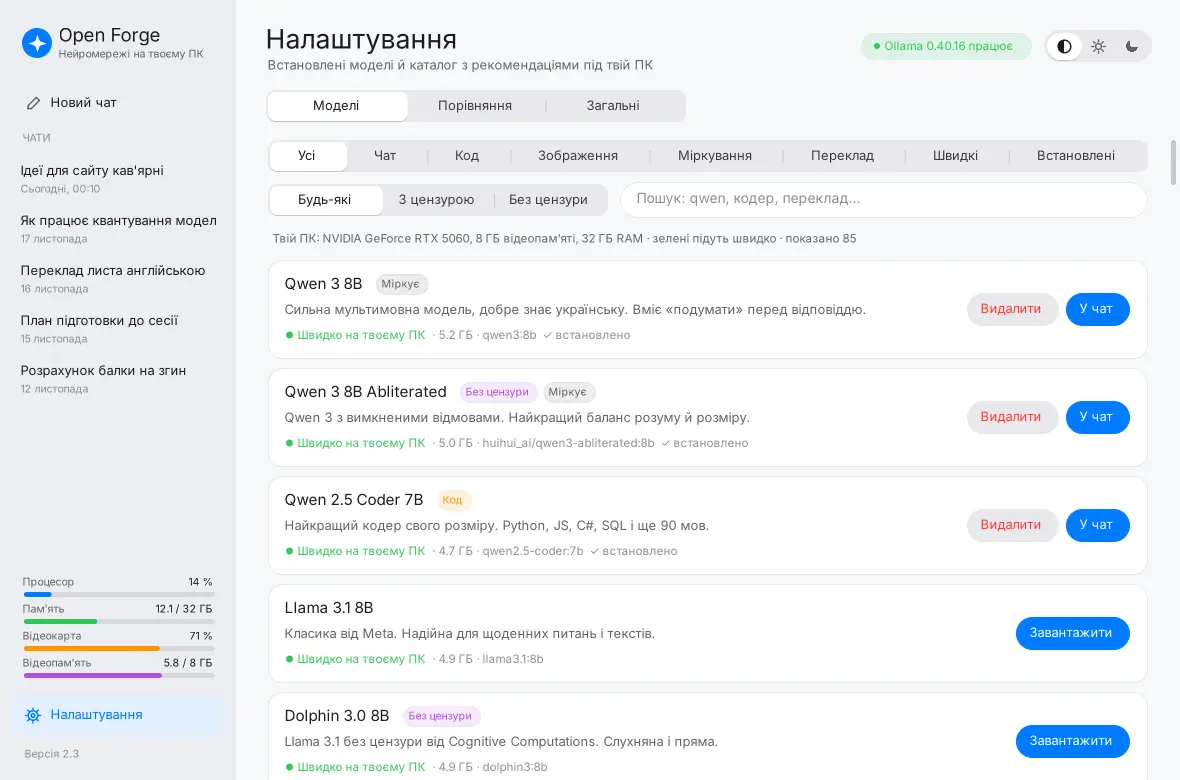
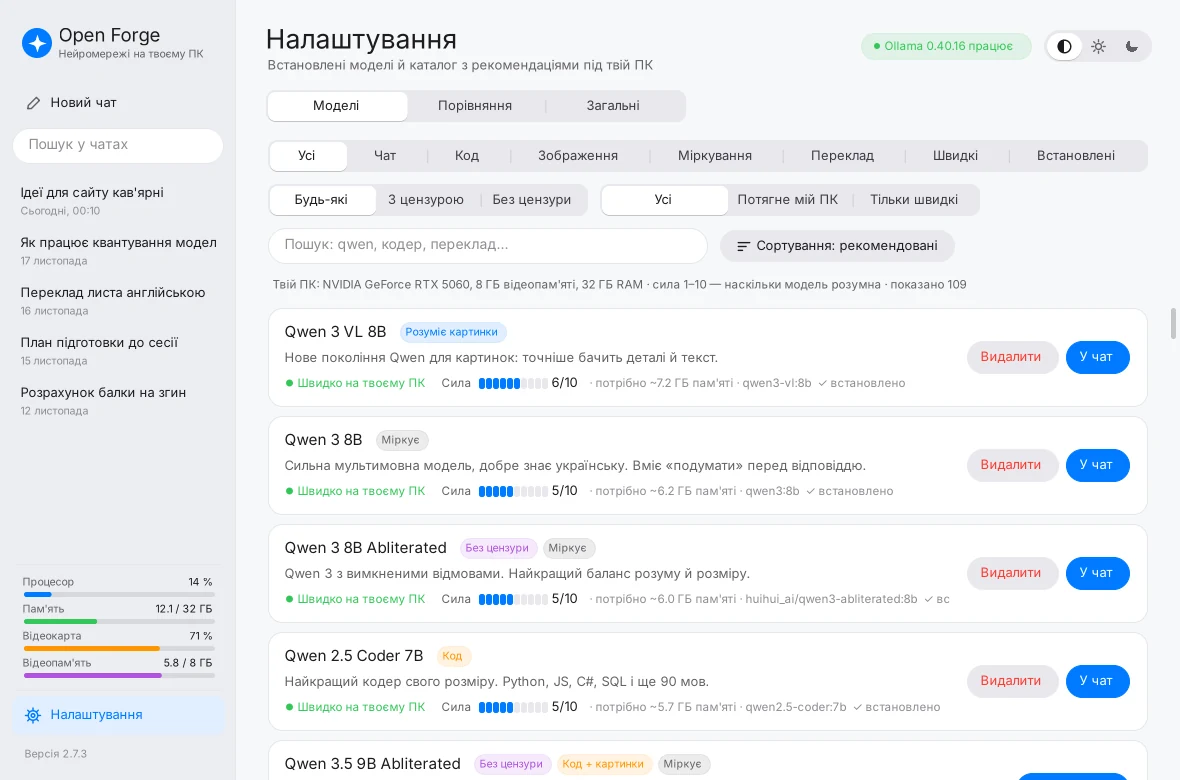
Сайт: перемикач теми (авто/світла/темна), тексти й скріни 2.7, сила моделей
Claude-Session: https://claude.ai/code/session_01SfcRwtUikkL3KpzoXkzQND

diff --git a/docs/index.html b/docs/index.html
@@ -4,8 +4,12 @@
 <meta charset="UTF-8">
 <meta name="viewport" content="width=device-width, initial-scale=1.0, viewport-fit=cover">
 <title>Open Forge — локальний AI для Windows</title>
-<meta name="description" content="Запускай локальні моделі ШІ на своєму ПК: чат, агент, що працює з файлами в папці, порівняння моделей і 109 моделей у каталозі — звичайні й без цензури.">
+<meta name="description" content="Запускай локальні моделі ШІ на своєму ПК: чат з файлами PDF і Word, агент, що працює з файлами в папці, порівняння моделей і 109 моделей із силою 1–10 — звичайні й без цензури.">
 <link rel="icon" type="image/png" href="img/icon.png">
+<script>
+// Тема з минулого візиту — до першого малювання, щоб сторінка не «блимала».
+try { var t = localStorage.getItem("of-theme"); if (t === "light" || t === "dark") document.documentElement.setAttribute("data-theme", t); } catch (e) {}
+</script>
 <link rel="preconnect" href="https://fonts.googleapis.com">
 <link rel="stylesheet" href="https://fonts.googleapis.com/css2?family=Inter:wght@400;500;600;700&family=Space+Grotesk:wght@500;600;700&display=swap">
 <style>
@@ -61,7 +65,7 @@ nav {
   border-bottom: 1px solid var(--border);
 }
 .nav { display: flex; align-items: center; justify-content: space-between; height: 58px; }
-.brand { display: flex; align-items: center; gap: 10px; font: 600 17px 'Space Grotesk', sans-serif; color: var(--fg); }
+.brand { display: flex; align-items: center; gap: 10px; font: 600 17px 'Space Grotesk', sans-serif; color: var(--fg); white-space: nowrap; }
 .brand img { width: 28px; height: 28px; border-radius: 7px; }
 .brand:hover { text-decoration: none; }
 .links { display: flex; gap: 26px; align-items: center; list-style: none; }
@@ -77,6 +81,21 @@ nav {
 .btn-ghost { background: var(--bg2); color: var(--fg) !important; padding: 13px 24px; font-size: 16px; border: 1px solid var(--border); }
 .btn-small { padding: 8px 16px; font-size: 13px; }
 .btn svg { width: 18px; height: 18px; }
+
+/* theme switch */
+.nav-right { display: flex; align-items: center; gap: 18px; }
+.theme {
+  display: inline-flex; padding: 3px; gap: 2px; border-radius: 999px;
+  background: var(--bg3); border: 1px solid var(--border);
+}
+.theme button {
+  width: 32px; height: 28px; border: 0; border-radius: 999px; background: transparent; color: var(--fg3);
+  display: grid; place-items: center; cursor: pointer; transition: background .15s, color .15s;
+}
+.theme button:hover { color: var(--fg); }
+.theme button[aria-pressed="true"] { background: var(--bg2); color: var(--fg); box-shadow: 0 1px 3px rgba(0,0,0,.12); }
+.theme svg { width: 16px; height: 16px; }
+.theme button:focus-visible { outline: 2px solid var(--accent); outline-offset: 1px; }
 
 /* hero */
 .hero { text-align: center; padding-top: 84px; padding-bottom: 40px; }
@@ -139,6 +158,11 @@ h2 { font-size: clamp(30px, 4.2vw, 46px); line-height: 1.1; margin-bottom: 14px;
 .tag.rec { background: var(--ok-soft); color: var(--ok); }
 .tag.unc { background: var(--violet-soft); color: var(--violet); }
 .note { color: var(--fg3); font-size: 13px; margin-top: 16px; }
+.power { display: flex; align-items: center; gap: 2px; margin-top: 6px; }
+.power em { font-style: normal; font-size: 12px; color: var(--fg3); margin-right: 6px; }
+.power i { width: 4px; height: 9px; border-radius: 1.5px; background: var(--border); }
+.power i.on { background: var(--accent); }
+.power b { display: inline; font-size: 11px; margin-left: 4px; color: var(--fg2); }
 
 /* what's new */
 .newbox { background: var(--bg2); border: 1px solid var(--border); border-radius: 20px; padding: 32px; box-shadow: var(--shadow); }
@@ -146,6 +170,11 @@ h2 { font-size: clamp(30px, 4.2vw, 46px); line-height: 1.1; margin-bottom: 14px;
 .newbox li { display: flex; gap: 12px; color: var(--fg2); }
 .newbox li b { color: var(--fg); }
 .dot { flex: none; width: 8px; height: 8px; margin-top: 9px; border-radius: 50%; background: var(--accent); }
+.older { margin-top: 22px; border: 0; background: transparent; padding: 0; }
+.older summary { padding: 0; color: var(--accent); font-weight: 600; font-size: 15px; justify-content: flex-start; }
+.older summary::after { content: ""; }
+.older ul { margin-top: 14px; }
+.older li { font-size: 14px; }
 
 /* steps */
 .steps { display: grid; grid-template-columns: repeat(auto-fit, minmax(220px, 1fr)); gap: 26px; counter-reset: s; }
@@ -184,10 +213,12 @@ footer { margin-top: 80px; border-top: 1px solid var(--border); }
 
 @media (max-width: 760px) {
   .links li:not(:last-child) { display: none; }
+  .nav-right { gap: 10px; }
   .hero { padding-top: 56px; }
   section { padding-top: 72px; }
   .newbox { padding: 22px; }
 }
+@media (max-width: 440px) { .links { display: none; } }
 @media (prefers-reduced-motion: reduce) { * { transition: none !important; scroll-behavior: auto !important; } }
 </style>
 </head>
@@ -196,19 +227,32 @@ footer { margin-top: 80px; border-top: 1px solid var(--border); }
 <nav>
   <div class="wrap nav">
     <a class="brand" href="#"><img src="img/icon.png" alt="">Open Forge</a>
-    <ul class="links">
-      <li><a href="#features">Можливості</a></li>
-      <li><a href="#look">Як виглядає</a></li>
-      <li><a href="#models">Моделі</a></li>
-      <li><a href="#faq">Питання</a></li>
-      <li><a href="https://github.com/Dimonchikk/Open-Forge" target="_blank" rel="noopener">GitHub</a></li>
-      <li><a class="btn btn-primary btn-small dl" href="https://github.com/Dimonchikk/Open-Forge/releases/latest">Завантажити</a></li>
-    </ul>
+    <div class="nav-right">
+      <ul class="links">
+        <li><a href="#features">Можливості</a></li>
+        <li><a href="#look">Як виглядає</a></li>
+        <li><a href="#models">Моделі</a></li>
+        <li><a href="#faq">Питання</a></li>
+        <li><a href="https://github.com/Dimonchikk/Open-Forge" target="_blank" rel="noopener">GitHub</a></li>
+        <li><a class="btn btn-primary btn-small dl" href="https://github.com/Dimonchikk/Open-Forge/releases/latest">Завантажити</a></li>
+      </ul>
+      <div class="theme" role="group" aria-label="Тема сайту">
+        <button type="button" data-theme-set="auto" title="Як у системі" aria-label="Тема як у системі">
+          <svg viewBox="0 0 24 24" fill="none" stroke="currentColor" stroke-width="2"><circle cx="12" cy="12" r="8.5"/><path d="M12 3.5a8.5 8.5 0 0 1 0 17z" fill="currentColor"/></svg>
+        </button>
+        <button type="button" data-theme-set="light" title="Світла" aria-label="Світла тема">
+          <svg viewBox="0 0 24 24" fill="none" stroke="currentColor" stroke-width="2" stroke-linecap="round"><circle cx="12" cy="12" r="4"/><path d="M12 2.5v2M12 19.5v2M4.6 4.6l1.4 1.4M18 18l1.4 1.4M2.5 12h2M19.5 12h2M4.6 19.4L6 18M18 6l1.4-1.4"/></svg>
+        </button>
+        <button type="button" data-theme-set="dark" title="Темна" aria-label="Темна тема">
+          <svg viewBox="0 0 24 24" fill="currentColor"><path d="M20.5 14.2A8.5 8.5 0 0 1 9.8 3.5a8.5 8.5 0 1 0 10.7 10.7z"/></svg>
+        </button>
+      </div>
+    </div>
   </div>
 </nav>
 
 <header class="wrap hero">
-  <a class="pill" href="#new">Нове у 2.7: файли PDF і Word, думки моделі, таблиці →</a>
+  <a class="pill" href="#new">Нове у 2.7: файли PDF і Word, думки моделі, сила 1–10 →</a>
   <h1>Локальний AI.<br><em>Без обмежень.</em></h1>
   <p class="sub">Запускай, тестуй і порівнюй моделі штучного інтелекту прямо на своєму комп'ютері. Без хмари, без підписок — і з моделями без цензури.</p>
   <div class="actions">
@@ -218,10 +262,10 @@ footer { margin-top: 80px; border-top: 1px solid var(--border); }
     </a>
     <a class="btn btn-ghost" href="https://github.com/Dimonchikk/Open-Forge" target="_blank" rel="noopener">Вихідний код</a>
   </div>
-  <p class="meta">Версія <span class="ver">2.7.4</span> · <span class="size">200 КБ</span> · Windows 10 і 11 · безкоштовно</p>
+  <p class="meta">Версія <span class="ver">2.7.4</span> · <span class="size">250 КБ</span> · Windows 10 і 11 · безкоштовно</p>
 
   <div class="shot">
-    <img class="only-light" src="img/chat_light.webp" alt="Чат Open Forge: питання і відповідь моделі Qwen 3 8B" width="1180" height="780">
+    <img class="only-light" src="img/chat_light.webp" alt="Чат Open Forge: модель подумала 2 секунди й написала скрипт на Python" width="1180" height="780">
     <img class="only-dark" src="img/chat_dark.webp" alt="Чат Open Forge у темній темі" width="1180" height="780">
   </div>
 </header>
@@ -235,23 +279,28 @@ footer { margin-top: 80px; border-top: 1px solid var(--border); }
   <div class="grid">
     <div class="card">
       <div class="ico"><svg viewBox="0 0 24 24" fill="none" stroke="currentColor" stroke-width="2" stroke-linecap="round" stroke-linejoin="round"><rect x="3" y="4" width="18" height="13" rx="4"/><path d="M8 17l-2.5 3.5L12 17"/></svg></div>
-      <h3>Чат без зависань</h3>
-      <p>Відповідь іде наживо, вікно лишається чуйним навіть на дуже довгих текстах. Можна кидати фото й скріншоти, виділяти текст мишею, код — окремим блоком з «Копіювати».</p>
+      <h3>Чат, як у великих</h3>
+      <p>Відповідь іде наживо з заголовками, списками, таблицями й блоками коду з «Копіювати». Свої повідомлення можна редагувати й видаляти, а «Ще раз» перепише відповідь.</p>
     </div>
     <div class="card">
-      <div class="ico"><svg viewBox="0 0 24 24" fill="none" stroke="currentColor" stroke-width="2" stroke-linecap="round" stroke-linejoin="round"><circle cx="12" cy="12" r="9"/><path d="M12 7v5l3.5 2"/></svg></div>
-      <h3>Історія чатів <span class="new">2.2</span></h3>
-      <p>Кожна розмова зберігається сама й лежить у боковому меню. Відкрий старий чат і продовж, перейменуй або видали.</p>
+      <div class="ico"><svg viewBox="0 0 24 24" fill="none" stroke="currentColor" stroke-width="2" stroke-linecap="round" stroke-linejoin="round"><path d="M14 3H7a2 2 0 0 0-2 2v14a2 2 0 0 0 2 2h10a2 2 0 0 0 2-2V8z"/><path d="M14 3v5h5M9 13h6M9 17h4"/></svg></div>
+      <h3>Файли й фото <span class="new">2.7</span></h3>
+      <p>Кидай у чат PDF, Word, текст, код чи скріншот — кнопкою «+», через Ctrl+V або перетягуванням. Модель прочитає й відповість по суті.</p>
     </div>
     <div class="card">
-      <div class="ico"><svg viewBox="0 0 24 24" fill="none" stroke="currentColor" stroke-width="2" stroke-linecap="round" stroke-linejoin="round"><path d="M4 9.5h3.5L12 6v12l-4.5-3.5H4z"/><path d="M15.5 9a4 4 0 0 1 0 6M18 6.5a7.5 7.5 0 0 1 0 11"/></svg></div>
-      <h3>Озвучка відповідей <span class="new">2.2</span></h3>
-      <p>Кнопка «Слухати» під відповіддю. Українську читає безкоштовний офлайн-голос, інші мови — голоси Windows.</p>
+      <div class="ico"><svg viewBox="0 0 24 24" fill="none" stroke="currentColor" stroke-width="2" stroke-linecap="round" stroke-linejoin="round"><path d="M12 3l1.8 5.2L19 10l-5.2 1.8L12 17l-1.8-5.2L5 10l5.2-1.8z"/><path d="M19 17l.7 1.8 1.8.7-1.8.7L19 22l-.7-1.8-1.8-.7 1.8-.7z"/></svg></div>
+      <h3>Думки моделі <span class="new">2.7</span></h3>
+      <p>Моделі, що міркують, показують хід думок у рядку «Думав 12 с» — клік розгортає. Поки думає, видно таймер.</p>
     </div>
     <div class="card">
       <div class="ico"><svg viewBox="0 0 24 24" fill="none" stroke="currentColor" stroke-width="2" stroke-linecap="round" stroke-linejoin="round"><path d="M3 7.5A2.5 2.5 0 0 1 5.5 5H10l2 2h6.5A2.5 2.5 0 0 1 21 9.5v8a2.5 2.5 0 0 1-2.5 2.5h-13A2.5 2.5 0 0 1 3 17.5z"/></svg></div>
       <h3>Агент у твоїй папці</h3>
-      <p>Обираєш папку — модель створює файли й підпапки з кодом, запускає команди за твоїм дозволом і робить скріншоти, щоб перевірити результат.</p>
+      <p>Модель створює файли з кодом, запускає команди за твоїм дозволом і робить скріншоти, щоб перевірити себе. Готовий сайт — «Переглянути» у вікні поруч.</p>
+    </div>
+    <div class="card">
+      <div class="ico"><svg viewBox="0 0 24 24" fill="none" stroke="currentColor" stroke-width="2" stroke-linecap="round" stroke-linejoin="round"><path d="M12 2.5l8.5 4.5v10L12 21.5 3.5 17V7z"/><path d="M3.5 7L12 11.5 20.5 7M12 11.5v10"/></svg></div>
+      <h3>109 моделей із силою 1–10 <span class="new">2.7</span></h3>
+      <p>На кожній картці — наскільки модель розумна, скільки пам'яті їй треба і чи потягне її твій ПК. Фільтр «Потягне мій ПК» і сортування від сильної до слабкої.</p>
     </div>
     <div class="card">
       <div class="ico"><svg viewBox="0 0 24 24" fill="none" stroke="currentColor" stroke-width="2" stroke-linecap="round" stroke-linejoin="round"><rect x="3" y="4" width="7" height="16" rx="2"/><rect x="14" y="4" width="7" height="16" rx="2"/></svg></div>
@@ -259,19 +308,19 @@ footer { margin-top: 80px; border-top: 1px solid var(--border); }
       <p>Одне питання — до трьох моделей поруч. Видно швидкість, час і токени; найшвидша отримує позначку.</p>
     </div>
     <div class="card">
-      <div class="ico"><svg viewBox="0 0 24 24" fill="none" stroke="currentColor" stroke-width="2" stroke-linecap="round" stroke-linejoin="round"><path d="M12 2.5l8.5 4.5v10L12 21.5 3.5 17V7z"/><path d="M3.5 7L12 11.5 20.5 7M12 11.5v10"/></svg></div>
-      <h3>109 моделей під твій ПК</h3>
-      <p>Чат, код, зображення, міркування, переклад — з фільтрами й пошуком. Біля кожної видно, чи піде вона швидко на твоїй відеокарті.</p>
-    </div>
-    <div class="card">
       <div class="ico"><svg viewBox="0 0 24 24" fill="none" stroke="currentColor" stroke-width="2" stroke-linecap="round" stroke-linejoin="round"><rect x="4" y="10" width="16" height="11" rx="2.5"/><path d="M8 10V7a4 4 0 0 1 7.5-2"/></svg></div>
       <h3>Моделі без цензури</h3>
-      <p>Dolphin і abliterated-версії відомих моделей — відповідають прямо, без «я не можу з цим допомогти».</p>
+      <p>48 версій Dolphin і abliterated у кожному розділі — відповідають прямо, без «я не можу з цим допомогти».</p>
+    </div>
+    <div class="card">
+      <div class="ico"><svg viewBox="0 0 24 24" fill="none" stroke="currentColor" stroke-width="2" stroke-linecap="round" stroke-linejoin="round"><circle cx="12" cy="12" r="9"/><path d="M12 7v5l3.5 2"/></svg></div>
+      <h3>Історія, пошук і озвучка</h3>
+      <p>Кожна розмова зберігається сама, є пошук за текстом. Кнопка «Слухати» читає відповідь українським офлайн-голосом.</p>
     </div>
     <div class="card">
       <div class="ico"><svg viewBox="0 0 24 24" fill="none" stroke="currentColor" stroke-width="2" stroke-linecap="round" stroke-linejoin="round"><path d="M13 3L5 14h6l-1 7 8-11h-6z"/></svg></div>
       <h3>Крихітний і швидкий</h3>
-      <p>Один файл на ~200 КБ, відкривається миттєво. Світла й темна тема, оновлення однією кнопкою.</p>
+      <p>Один файл на ~250 КБ, відкривається миттєво. Навантаження ПК видно в меню, світла й темна тема, оновлення однією кнопкою.</p>
     </div>
   </div>
 </section>
@@ -279,7 +328,7 @@ footer { margin-top: 80px; border-top: 1px solid var(--border); }
 <section id="look" class="gallery">
   <p class="label">Як виглядає</p>
   <h2>Чисто, зрозуміло, у світлій і темній темі</h2>
-  <p class="lead">Скріни Open Forge 2.6. Тема підлаштовується під Windows.</p>
+  <p class="lead">Скріни Open Forge 2.7. Програма бере тему з Windows, а цей сайт можна перемкнути кнопкою вгорі.</p>
   <div class="tabs" role="tablist">
     <button class="tab" role="tab" aria-selected="true" data-shot="chat">Чат</button>
     <button class="tab" role="tab" aria-selected="false" data-shot="agent">Агент</button>
@@ -299,16 +348,16 @@ footer { margin-top: 80px; border-top: 1px solid var(--border); }
   <h2>Найкращі відкриті моделі вже всередині</h2>
   <p class="lead">109 моделей з бібліотеки Ollama: звичайні та 48 без цензури (Dolphin і abliterated) — у кожному розділі, зокрема 26 таких, що розуміють картинки. Ось кілька, що швидко працюють на відеокарті з 8 ГБ:</p>
   <div class="models">
-    <div class="m"><div><b>Qwen 3 8B</b><small>Чат · думає перед відповіддю</small></div><span class="tag rec">Рекомендовано</span></div>
-    <div class="m"><div><b>Qwen 3 8B Abliterated</b><small>Чат · без відмов</small></div><span class="tag unc">Без цензури</span></div>
-    <div class="m"><div><b>Qwen 2.5 Coder 7B</b><small>Код · 90+ мов</small></div><span class="tag rec">Рекомендовано</span></div>
-    <div class="m"><div><b>DeepSeek R1 8B</b><small>Міркування · крок за кроком</small></div><span class="tag rec">Рекомендовано</span></div>
-    <div class="m"><div><b>Dolphin 3.0 8B</b><small>Чат · Llama 3.1</small></div><span class="tag unc">Без цензури</span></div>
-    <div class="m"><div><b>TranslateGemma 4B</b><small>Переклад · 55 мов</small></div><span class="tag rec">Рекомендовано</span></div>
-    <div class="m"><div><b>Qwen 3.5 9B Abliterated</b><small>Чат · розуміє картинки</small></div><span class="tag unc">Без цензури</span></div>
-    <div class="m"><div><b>Llama 3.1 8B</b><small>Чат · Meta</small></div><span class="tag rec">Рекомендовано</span></div>
+    <div class="m"><div><b>Qwen 3.5 9B Abliterated</b><small>Код + картинки</small><span class="power" aria-label="сила 6 з 10"><em>Сила</em><i class="on"></i><i class="on"></i><i class="on"></i><i class="on"></i><i class="on"></i><i class="on"></i><i></i><i></i><i></i><i></i><b>6/10</b></span></div><span class="tag unc">Без цензури</span></div>
+    <div class="m"><div><b>Qwen 3 VL 8B</b><small>Бачить картинки</small><span class="power" aria-label="сила 6 з 10"><em>Сила</em><i class="on"></i><i class="on"></i><i class="on"></i><i class="on"></i><i class="on"></i><i class="on"></i><i></i><i></i><i></i><i></i><b>6/10</b></span></div><span class="tag rec">Рекомендовано</span></div>
+    <div class="m"><div><b>Qwen 3 8B</b><small>Чат · думає</small><span class="power" aria-label="сила 5 з 10"><em>Сила</em><i class="on"></i><i class="on"></i><i class="on"></i><i class="on"></i><i class="on"></i><i></i><i></i><i></i><i></i><i></i><b>5/10</b></span></div><span class="tag rec">Рекомендовано</span></div>
+    <div class="m"><div><b>Qwen 3 8B Abliterated</b><small>Чат · без відмов</small><span class="power" aria-label="сила 5 з 10"><em>Сила</em><i class="on"></i><i class="on"></i><i class="on"></i><i class="on"></i><i class="on"></i><i></i><i></i><i></i><i></i><i></i><b>5/10</b></span></div><span class="tag unc">Без цензури</span></div>
+    <div class="m"><div><b>Qwen 2.5 Coder 7B</b><small>Код · 90+ мов</small><span class="power" aria-label="сила 5 з 10"><em>Сила</em><i class="on"></i><i class="on"></i><i class="on"></i><i class="on"></i><i class="on"></i><i></i><i></i><i></i><i></i><i></i><b>5/10</b></span></div><span class="tag rec">Рекомендовано</span></div>
+    <div class="m"><div><b>DeepSeek R1 8B</b><small>Міркування</small><span class="power" aria-label="сила 5 з 10"><em>Сила</em><i class="on"></i><i class="on"></i><i class="on"></i><i class="on"></i><i class="on"></i><i></i><i></i><i></i><i></i><i></i><b>5/10</b></span></div><span class="tag rec">Рекомендовано</span></div>
+    <div class="m"><div><b>Dolphin 3.0 8B</b><small>Чат · Llama 3.1</small><span class="power" aria-label="сила 5 з 10"><em>Сила</em><i class="on"></i><i class="on"></i><i class="on"></i><i class="on"></i><i class="on"></i><i></i><i></i><i></i><i></i><i></i><b>5/10</b></span></div><span class="tag unc">Без цензури</span></div>
+    <div class="m"><div><b>TranslateGemma 4B</b><small>Переклад · 55 мов</small><span class="power" aria-label="сила 4 з 10"><em>Сила</em><i class="on"></i><i class="on"></i><i class="on"></i><i class="on"></i><i></i><i></i><i></i><i></i><i></i><i></i><b>4/10</b></span></div><span class="tag rec">Рекомендовано</span></div>
   </div>
-  <p class="note">Більші моделі (14B–35B, зокрема Qwen 3 Coder 30B і GPT-OSS 20B) теж є — вони працюють, коли частина моделі в оперативній пам'яті, просто повільніше.</p>
+  <p class="note">Сильніші моделі теж є: Gemma 4 12B і GPT-OSS 20B (сила 7), Qwen 3 Coder 30B і Mistral Small 3.2 (8), Qwen 3.6 35B і QwQ 32B (9). Вони працюють, коли частина моделі в оперативній пам'яті, — просто повільніше.</p>
 </section>
 
 <section id="new">
@@ -316,13 +365,17 @@ footer { margin-top: 80px; border-top: 1px solid var(--border); }
   <h2>Версія 2.7</h2>
   <div class="newbox">
     <ul>
-      <li><span class="dot"></span><span><b>Сила моделі 1–10</b> (2.7.1): на кожній картці видно, наскільки модель розумна, скільки пам'яті їй треба і чи потягне її твій ПК. Фільтр «Потягне мій ПК» і сортування від сильної до слабкої чи від легкої до важкої (2.7.2).</span></li>
       <li><span class="dot"></span><span><b>Файли в чаті:</b> PDF, Word, текст і код — кнопка «+», Ctrl+V або перетягни. Модель читає вміст і відповідає по ньому.</span></li>
-      <li><span class="dot"></span><span><b>«Думав 12 с»</b>: моделі, що міркують, показують свої думки в рядку, який розгортається, — як у Claude.</span></li>
+      <li><span class="dot"></span><span><b>«Думав 12 с»</b>: моделі, що міркують, показують свої думки в рядку, який розгортається.</span></li>
+      <li><span class="dot"></span><span><b>Сила моделі 1–10</b>, потрібна пам'ять і «чи потягне ПК» — на кожній картці каталогу й у виборі моделі в чаті. Фільтр «Потягне мій ПК» і сортування від сильної до слабкої.</span></li>
       <li><span class="dot"></span><span><b>Редагуй і видаляй свої повідомлення</b>, а кнопка «Ще раз» перепише відповідь заново.</span></li>
-      <li><span class="dot"></span><span><b>Гарні відповіді:</b> заголовки, списки, жирний текст, <code>код</code> у рядку й таблиці.</span></li>
+      <li><span class="dot"></span><span><b>Гарні відповіді:</b> заголовки, списки, жирний текст, <code>код</code> у рядку, цитати й таблиці.</span></li>
       <li><span class="dot"></span><span><b>«Переглянути»</b>: HTML з чату чи сайт від агента відкривається у вікні поруч.</span></li>
-      <li><span class="dot"></span><span><b>Пошук у чатах</b> — за назвою й текстом розмов.</span></li>
+      <li><span class="dot"></span><span><b>Пошук у чатах</b> — за назвою й текстом розмов. Нові заокруглені меню в стилі програми.</span></li>
+      <li><span class="dot"></span><span><b>Виправлено</b> (2.7.4): якщо в чаті була картинка, а потім обрали модель, що картинок не бачить, повідомлення більше не падають з помилкою.</span></li>
+    </ul>
+    <details class="older"><summary>Раніше: версії 2.1–2.6 →</summary>
+    <ul>
       <li><span class="dot"></span><span><b>Агент бачить свою роботу:</b> робить скріншот створеного сайту, показує його тобі в чаті, а модель, що розуміє картинки, перевіряє результат і виправляє.</span></li>
       <li><span class="dot"></span><span><b>Каталог на всю ширину</b> (2.6.3): дві колонки карток і фільтри, що не зникають при прокрутці.</span></li>
       <li><span class="dot"></span><span><b>Живий рядок «Думає над відповіддю»</b> (2.6.2): крапки й таймер, поки модель завантажується чи міркує.</span></li>
@@ -338,6 +391,7 @@ footer { margin-top: 80px; border-top: 1px solid var(--border); }
       <li><span class="dot"></span><span><b>Простіше меню:</b> «Моделі» й «Порівняння» тепер вкладки в «Налаштуваннях».</span></li>
       <li><span class="dot"></span><span><b>Пам'ять розмови</b> (з 2.1.1): агент більше не впирається в ліміт 4096 токенів, розмір можна обрати в налаштуваннях.</span></li>
     </ul>
+    </details>
     <p class="note"><a href="https://github.com/Dimonchikk/Open-Forge/releases" target="_blank" rel="noopener">Історія всіх версій →</a></p>
   </div>
 </section>
@@ -361,6 +415,8 @@ footer { margin-top: 80px; border-top: 1px solid var(--border); }
     <details><summary>Чи потрібен інтернет?</summary><p>Лише щоб завантажити програму, Ollama і моделі. Після цього все працює офлайн — твої повідомлення не йдуть у жодну хмару.</p></details>
     <details><summary>Що означає «без цензури»?</summary><p>Це версії відкритих моделей, у яких прибрано вбудовані відмови (Dolphin, abliterated). Вони відповідають прямо, без «я не можу з цим допомогти». Відповідальність за використання — на тобі.</p></details>
     <details><summary>Який потрібен комп'ютер?</summary><p>Windows 10 або 11 (64-bit) і від 8 ГБ оперативної пам'яті. Відеокарта з 6–8 ГБ пам'яті дуже бажана: тоді моделі 7–9B відповідають швидко. Без відеокарти працюватимуть малі моделі.</p></details>
+    <details><summary>Яку модель обрати для мого ПК?</summary><p>У «Налаштування → Моделі» увімкни фільтр «Потягне мій ПК» і сортування «Від сильної до слабкої». Зверху будуть найрозумніші моделі, що підуть на твоїй відеокарті; зелена крапка — швидко, помаранчева — повільніше (частина моделі в оперативній пам'яті).</p></details>
+    <details><summary>Які файли модель може прочитати?</summary><p>PDF, Word (.docx), звичайний текст, Markdown, CSV, JSON і код (Python, JavaScript, C#, HTML та інші). Сканований PDF без тексту прочитати не вийде — тоді додай скріншот сторінки як фото й обери модель, що розуміє картинки.</p></details>
     <details><summary>Де зберігаються моделі?</summary><p>Там, де їх тримає Ollama (типово — у папці користувача, або в папці зі змінної <code>OLLAMA_MODELS</code>, наприклад <code>D:\AI\ollama-models</code>). Кожна модель займає 1–20 ГБ.</p></details>
     <details><summary>Windows попереджає «невідомий видавець» — це нормально?</summary><p>Так: інсталятор поки не підписаний сертифікатом. Натисни «Докладніше» → «Виконати все одно». Якщо ввімкнено «Інтелектуальне керування програмами» (Smart App Control), Windows може не дати запустити непідписаний файл. Увесь код відкритий на GitHub.</p></details>
     <details><summary>Як оновити або видалити?</summary><p>Коли виходить нова версія, зліва внизу з'являється кнопка «Оновити» — вона завантажує новий інсталятор, а він ставить версію поверх старої, зберігаючи налаштування. Видалити можна в «Налаштуваннях» програми або через «Параметри → Програми» Windows; Ollama й моделі залишаються.</p></details>
@@ -373,7 +429,7 @@ footer { margin-top: 80px; border-top: 1px solid var(--border); }
   <p class="lead" style="margin: 0 auto 28px">Безкоштовно, з відкритим кодом. Дані залишаються на твоєму комп'ютері.</p>
   <a class="btn btn-primary dl" href="https://github.com/Dimonchikk/Open-Forge/releases/latest">
     <svg viewBox="0 0 24 24" fill="none" stroke="currentColor" stroke-width="2" stroke-linecap="round" stroke-linejoin="round"><path d="M12 4v11M7 10l5 5 5-5M5 20h14"/></svg>
-    Завантажити інсталятор · <span class="size">200 КБ</span>
+    Завантажити інсталятор · <span class="size">250 КБ</span>
   </a>
   <div class="req">
     <span>Windows 10 / 11 (64-bit)</span><span>8+ ГБ RAM</span><span>Відеокарта — бажано</span><span>Ollama встановиться сама</span>
@@ -396,12 +452,27 @@ footer { margin-top: 80px; border-top: 1px solid var(--border); }
 
 <script>
 (function () {
+  // theme switch: auto / light / dark (remembered in this browser)
+  var root = document.documentElement;
+  var btns = document.querySelectorAll("[data-theme-set]");
+  function current() { var t = root.getAttribute("data-theme"); return t === "light" || t === "dark" ? t : "auto"; }
+  function mark() { var c = current(); btns.forEach(function (b) { b.setAttribute("aria-pressed", b.dataset.themeSet === c ? "true" : "false"); }); }
+  btns.forEach(function (b) {
+    b.addEventListener("click", function () {
+      var t = b.dataset.themeSet;
+      if (t === "auto") root.removeAttribute("data-theme"); else root.setAttribute("data-theme", t);
+      try { if (t === "auto") localStorage.removeItem("of-theme"); else localStorage.setItem("of-theme", t); } catch (e) {}
+      mark();
+    });
+  });
+  mark();
+
   // gallery tabs
   var CAPTIONS = {
-    chat: "Зліва — «Новий чат» і всі твої розмови. Відповідь з'являється наживо, код — окремим блоком, під відповіддю «Копіювати» і «Слухати».",
-    agent: "Агент у папці: кроки згорнуті в один рядок (клік — повний список), під відповіддю — «Відкрити папку» і скільки файлів змінено.",
+    chat: "Зліва — пошук і всі твої розмови. Над відповіддю — «Думав 2 с» (клік показує думки моделі), код окремим блоком, під відповіддю «Копіювати», «Слухати» і «Ще раз».",
+    agent: "Агент у папці: кроки згорнуті в один рядок (клік — повний список), під відповіддю — «Переглянути сайт», «Відкрити папку» і скільки файлів змінено.",
     compare: "Налаштування → Порівняння: одне питання — кілька моделей поруч, зі швидкістю, часом і токенами.",
-    models: "Налаштування → Моделі: зелені влазять у відеопам'ять і працюють швидко. Фільтри, пошук, завантаження в один клік.",
+    models: "Налаштування → Моделі: сила 1–10, скільки пам'яті треба і чи потягне твій ПК. Фільтри «Без цензури» й «Потягне мій ПК», сортування й пошук.",
     settings: "Налаштування → Загальні: інструкція для моделі, пам'ять розмови, твій ПК, оновлення й видалення."
   };
   var tabs = document.querySelectorAll(".tab");
